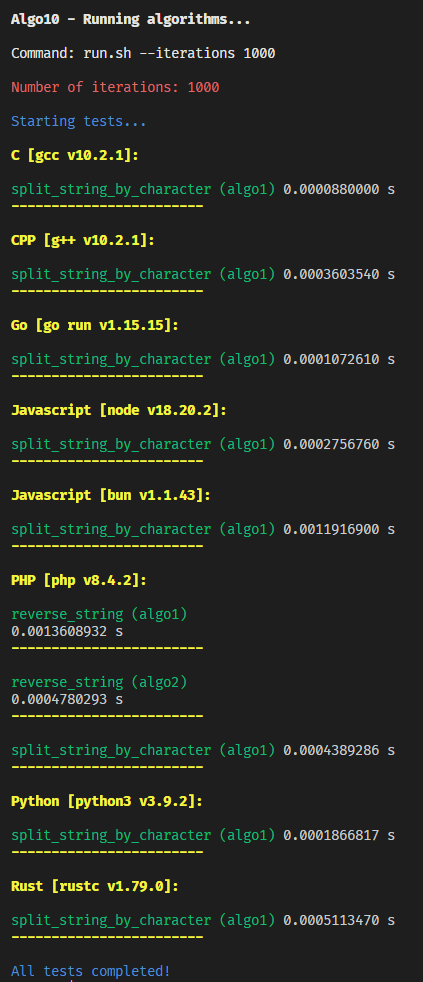
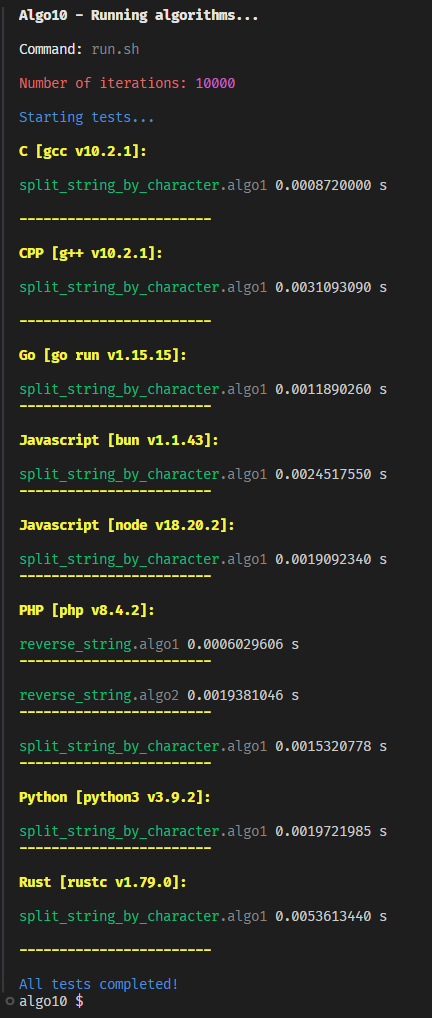
🚸 run.sh - Improved output format + variation filter

diff --git a/Javascript/split_string_by_character.algo1.js b/Javascript/split_string_by_character.algo1.js
@@ -5,7 +5,7 @@ const Benchmark = require('./Benchmark');
  * Complexity: O(n)
  * Description: Basic string splitting implementation using split()
  */
-function split_string(text, delimiter) {
+function split_string_by_character(text, delimiter) {
     return text.split(delimiter);
 }
 
@@ -18,7 +18,7 @@ const iterations = process.argv[2] ? parseInt(process.argv[2]) : 10000;
 
 // # 2⃣ Run benchmark
 const benchmark = new Benchmark(iterations);
-benchmark.measure(split_string, [text, delimiter]);
+benchmark.measure(split_string_by_character, [text, delimiter]);
 
 // # 3⃣ Print results
 benchmark.print();

diff --git a/Go/split_string_by_character.algo1.go b/Go/split_string_by_character.algo1.go
@@ -7,8 +7,8 @@ import (
 	"./Benchmark"
 )
 
-// SplitString splits a string by a given delimiter
-func SplitString(text, delimiter string) []string {
+// SplitStringByCharacter splits a string by a given delimiter
+func SplitStringByCharacter(text, delimiter string) []string {
 	return strings.Split(text, delimiter)
 }
 
@@ -25,7 +25,7 @@ func main() {
 
 	// # 2⃣ Run benchmark
 	Benchmark := Benchmark.NewBenchmark(iterations)
-	Benchmark.Measure(SplitString, text, delimiter)
+	Benchmark.Measure(SplitStringByCharacter, text, delimiter)
 
 	// # 3⃣ Print results
 	Benchmark.Print()

diff --git a/C/split_string_by_character.algo1.c b/C/split_string_by_character.algo1.c
@@ -9,7 +9,7 @@ typedef struct {
     int count;
 } SplitResult;
 
-void* split_string(va_list args) {
+void* split_string_by_character(va_list args) {
     const char* text = va_arg(args, const char*);
     const char* delimiter = va_arg(args, const char*);
     
@@ -44,7 +44,7 @@ int main(int argc, char *argv[]) {
     // # 2⃣ Benchmark
     Benchmark b;
     benchmark_init(&b, iterations);
-    benchmark_measure(&b, split_string, text, delimiter);
+    benchmark_measure(&b, split_string_by_character, text, delimiter);
 
     // # 3⃣ Print results
     benchmark_print(&b);

diff --git a/README.md b/README.md
@@ -1,6 +1,8 @@
 # Algo10
 
-Algorithm studies. Compared in different languages and variations with benchmarks.
+Algorithm studies.
+
+Algo10 is a great repo to find that algorithm, compare its variations and compare performance with other languages.
 
 ## Algorithms
 
@@ -9,7 +11,7 @@ Algorithm studies. Compared in different languages and variations with benchmark
 
 ## Project Structure
 
-Below is an example of how algorithms are structured in directories and folders.
+Below is an example of how algorithms are structured in directories and files.
 
 ```txt
 algo10/
@@ -21,7 +23,6 @@ algo10/
 │   └── ...Other algorithms or variations of the same algorithm here...
 ├── CPP/
 │   ├── Benchmark.h
-│   ├── Benchmark.cpp
 │   ├── split_string_by_character.algo1.cpp
 │   ├── split_string_by_character.algo2.cpp
 │   └── ...Other algorithms or variations of the same algorithm here...
@@ -53,13 +54,15 @@ algo10/
 
 ## Rules
 
-1. Language names like folders in the root folder start with a capital letter
-2. Algorithm names MUST be identical across all languages (e.g., 'split_string_by_character' should be used consistently, not 'explode_string' in one language and 'split_string_by_character' in another)
+1. Language names like folders in the root folder start with a capital letter.
+2. Algorithm names MUST be identical across all languages.
 3. Each algorithm can have multiple implementations (variations)
-4. Variations of algorithms written in the same language are identified with the suffix `.algo` + `n`, where `n` is the number of the algorithm variation: algo1, algo2, etc. There can only be up to 10 variations of the same algorithm.
-5. Each language must have its own Benchmark module.
-6. The Benchmark module file name for each language must start with an uppercase letter: `Benchmark`.
-7. All implementations MUST include benchmarks for performance comparison
+4. Variations of algorithms are identified with the suffix `.algo` + `n` in file name, where `n` is the number of the algorithm variation.
+5. Each language MUST have its own Benchmark module.
+6. The Benchmark module file name for each language MUST start with an uppercase letter: `Benchmark`.
+7. All implementations MUST include benchmarks for performance comparison.
+8. Benchmark modules MUST implement loops for iterations.
+9. Algorithms can have a maximum of 10 variations.
 
 ### File Naming Convention
 
@@ -70,7 +73,7 @@ algo10/
 
 ## Scope
 
-### Programming Languages
+### Supported Languages
 
 - C
 - CPP
@@ -82,35 +85,41 @@ algo10/
 
 Feel free to add other languages.
 
-### Runtimes
+### Supported Runtimes
 
 #### Javascript
 
-- NodeJS
 - Bun
+- NodeJS
 
 Feel free to add other runtimes.
 
 ## Running Tests
 
 ```bash
-bash run.sh [options] [args]
+bash run.sh [args] [options]
 ```
+
+### Args
+
+- `<algorithm_name>`: Name of the algorithm to be executed.
+- `<algorithm_index>`: Index of the algorithm in the list to be executed.
+- `<algorithm_name>.algo<variation_number>`: Name of the algorithm with specific variation to be executed.
 
 ### Options
 
 - `--iterations <number>`: Sets the number of iterations for the benchmarks (default: 10000).
 - `--language <language>`: Filters the tests for a specific language.
 
-### Args
-
-- `<algorithm_name>`: Name of the algorithm to be executed.
-- `<algorithm_index>`: Index of the algorithm in the list to be executed.
-
 ### Output example
 
 ```bash
 bash run.sh --iterations 1000
+# bash run.sh 1 --iterations 10000
+# bash run.sh split_string_by_character --iterations 10000
+# bash run.sh split_string_by_character.algo1 --iterations 10000
+# bash run.sh --language PHP
+# ...
 ```
 
 ![Example Output](output.png)
